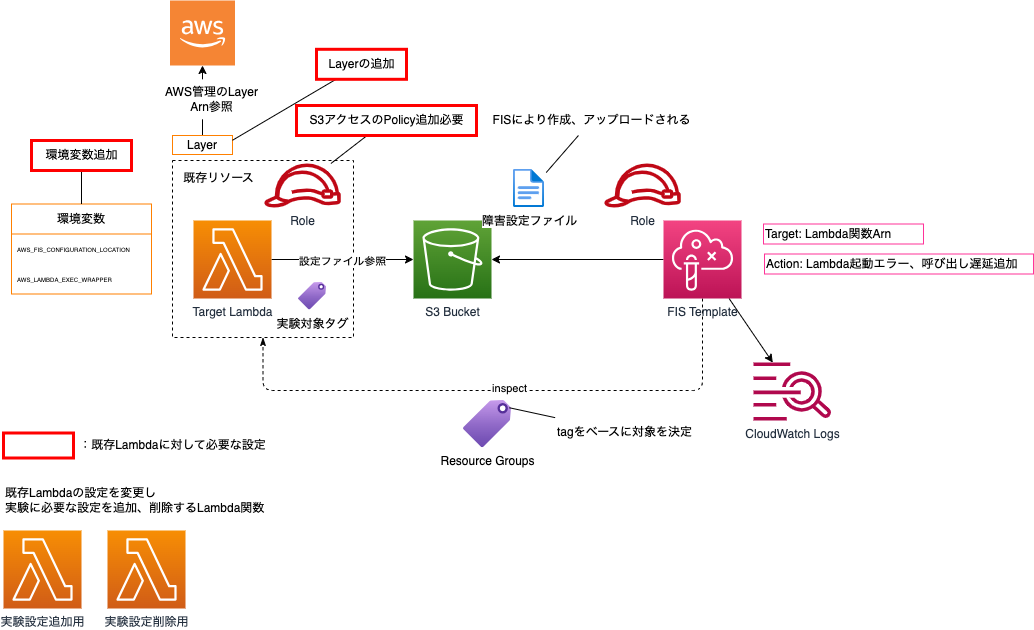
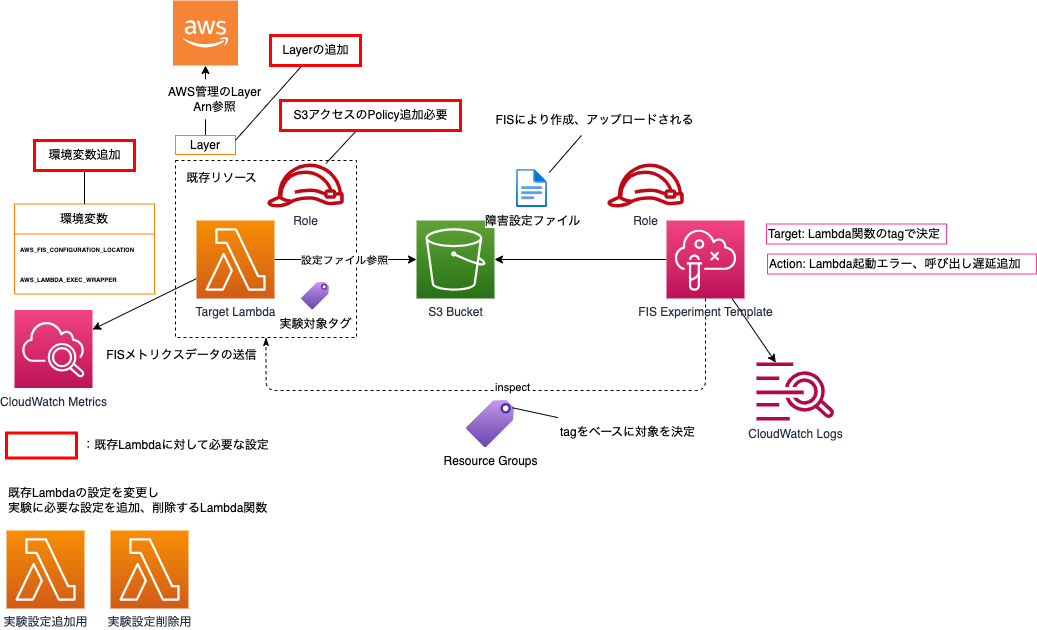
feat(fisLambda): fisのcw metrics送信のための設定追加

diff --git a/resources/lambda/fisLambdaActionSetup/index.ts b/resources/lambda/fisLambdaActionSetup/index.ts
@@ -32,6 +32,12 @@ const FIS_EXTENTION_TOKYO_ARM64 =
 const FIS_EXTENTION_TOKYO_X86 =
   'arn:aws:lambda:ap-northeast-1:339712942424:layer:aws-fis-extension-x86_64:9'
 
+/** Lambda関数にアタッチするIAM PolicyのArn */
+const attachPolicyArns = [
+  'arn:aws:iam::aws:policy/AmazonS3FullAccess',
+  'arn:aws:iam::aws:policy/CloudWatchFullAccessV2'
+]
+
 interface Event {
   /** 障害注入対象のLambda関数名 */
   targetLambdaName: string
@@ -67,7 +73,7 @@ async function main(functionName: string, bucketName: string) {
   const roleArn = response.Configuration?.Role
   if (roleArn === undefined) throw new Error('Failed to get lambda role')
   const roleName = roleArn.split('/')[1]
-  await addS3FullAccessPolicy(roleName)
+  await addToPolicy(roleName, attachPolicyArns)
 
   // 既存の環境変数を含む新しい環境変数のリストを作成
   const existingEnvVariables = response.Configuration?.Environment?.Variables
@@ -131,16 +137,17 @@ async function updateLambdaFunction(
 }
 
 /**
- * LambdaのIAM PolicyにS3フルアクセスを追加
+ * LambdaのIAM RoleにIAM Policyを追加
  * @param roleName
  */
-async function addS3FullAccessPolicy(roleName: string) {
-  const attachPolicyCommand = new AttachRolePolicyCommand({
-    RoleName: roleName,
-    PolicyArn: 'arn:aws:iam::aws:policy/AmazonS3FullAccess'
-  })
-
-  await iamClient.send(attachPolicyCommand)
+async function addToPolicy(roleName: string, policyArns: string[]) {
+  for (const policyArn of policyArns) {
+    const attachPolicyCommand = new AttachRolePolicyCommand({
+      RoleName: roleName,
+      PolicyArn: policyArn
+    })
+    await iamClient.send(attachPolicyCommand)
+  }
 }
 
 /**

diff --git a/resources/lambda/fisLambdaActionCleanUp/index.ts b/resources/lambda/fisLambdaActionCleanUp/index.ts
@@ -32,6 +32,12 @@ const FIS_EXTENTION_TOKYO_ARM64 =
 const FIS_EXTENTION_TOKYO_X86 =
   'arn:aws:lambda:ap-northeast-1:339712942424:layer:aws-fis-extension-x86_64:9'
 
+/** Lambda関数にアタッチするIAM PolicyのArn */
+const detachPolicyArns = [
+  'arn:aws:iam::aws:policy/AmazonS3FullAccess',
+  'arn:aws:iam::aws:policy/CloudWatchFullAccessV2'
+]
+
 interface Event {
   /** 障害注入対象のLambda関数名 */
   targetLambdaName: string
@@ -63,7 +69,7 @@ async function main(functionName: string) {
   const roleArn = response.Configuration?.Role
   if (roleArn === undefined) throw new Error('Failed to get lambda role')
   const roleName = roleArn.split('/')[1]
-  await removeS3FullAccessPolicy(roleName)
+  await removePolicy(roleName, detachPolicyArns)
 
   // 削除する環境変数を除いた実験設定追加前の環境変数のリストを作る
   const existingEnvVariables = response.Configuration?.Environment?.Variables ?? {}
@@ -120,16 +126,17 @@ async function updateLambdaFunction(
 }
 
 /**
- * LambdaのIAM PolicyからS3フルアクセスを削除
+ * LambdaのIAM RoleからIAM Policyを削除
  * @param roleName
  */
-async function removeS3FullAccessPolicy(roleName: string) {
-  const command = new DetachRolePolicyCommand({
-    RoleName: roleName,
-    PolicyArn: 'arn:aws:iam::aws:policy/AmazonS3FullAccess'
-  })
-
-  await iamClient.send(command)
+async function removePolicy(roleName: string, policyArns: string[]) {
+  for (const policyArn of policyArns) {
+    const attachPolicyCommand = new DetachRolePolicyCommand({
+      RoleName: roleName,
+      PolicyArn: policyArn
+    })
+    await iamClient.send(attachPolicyCommand)
+  }
 }
 
 /**
